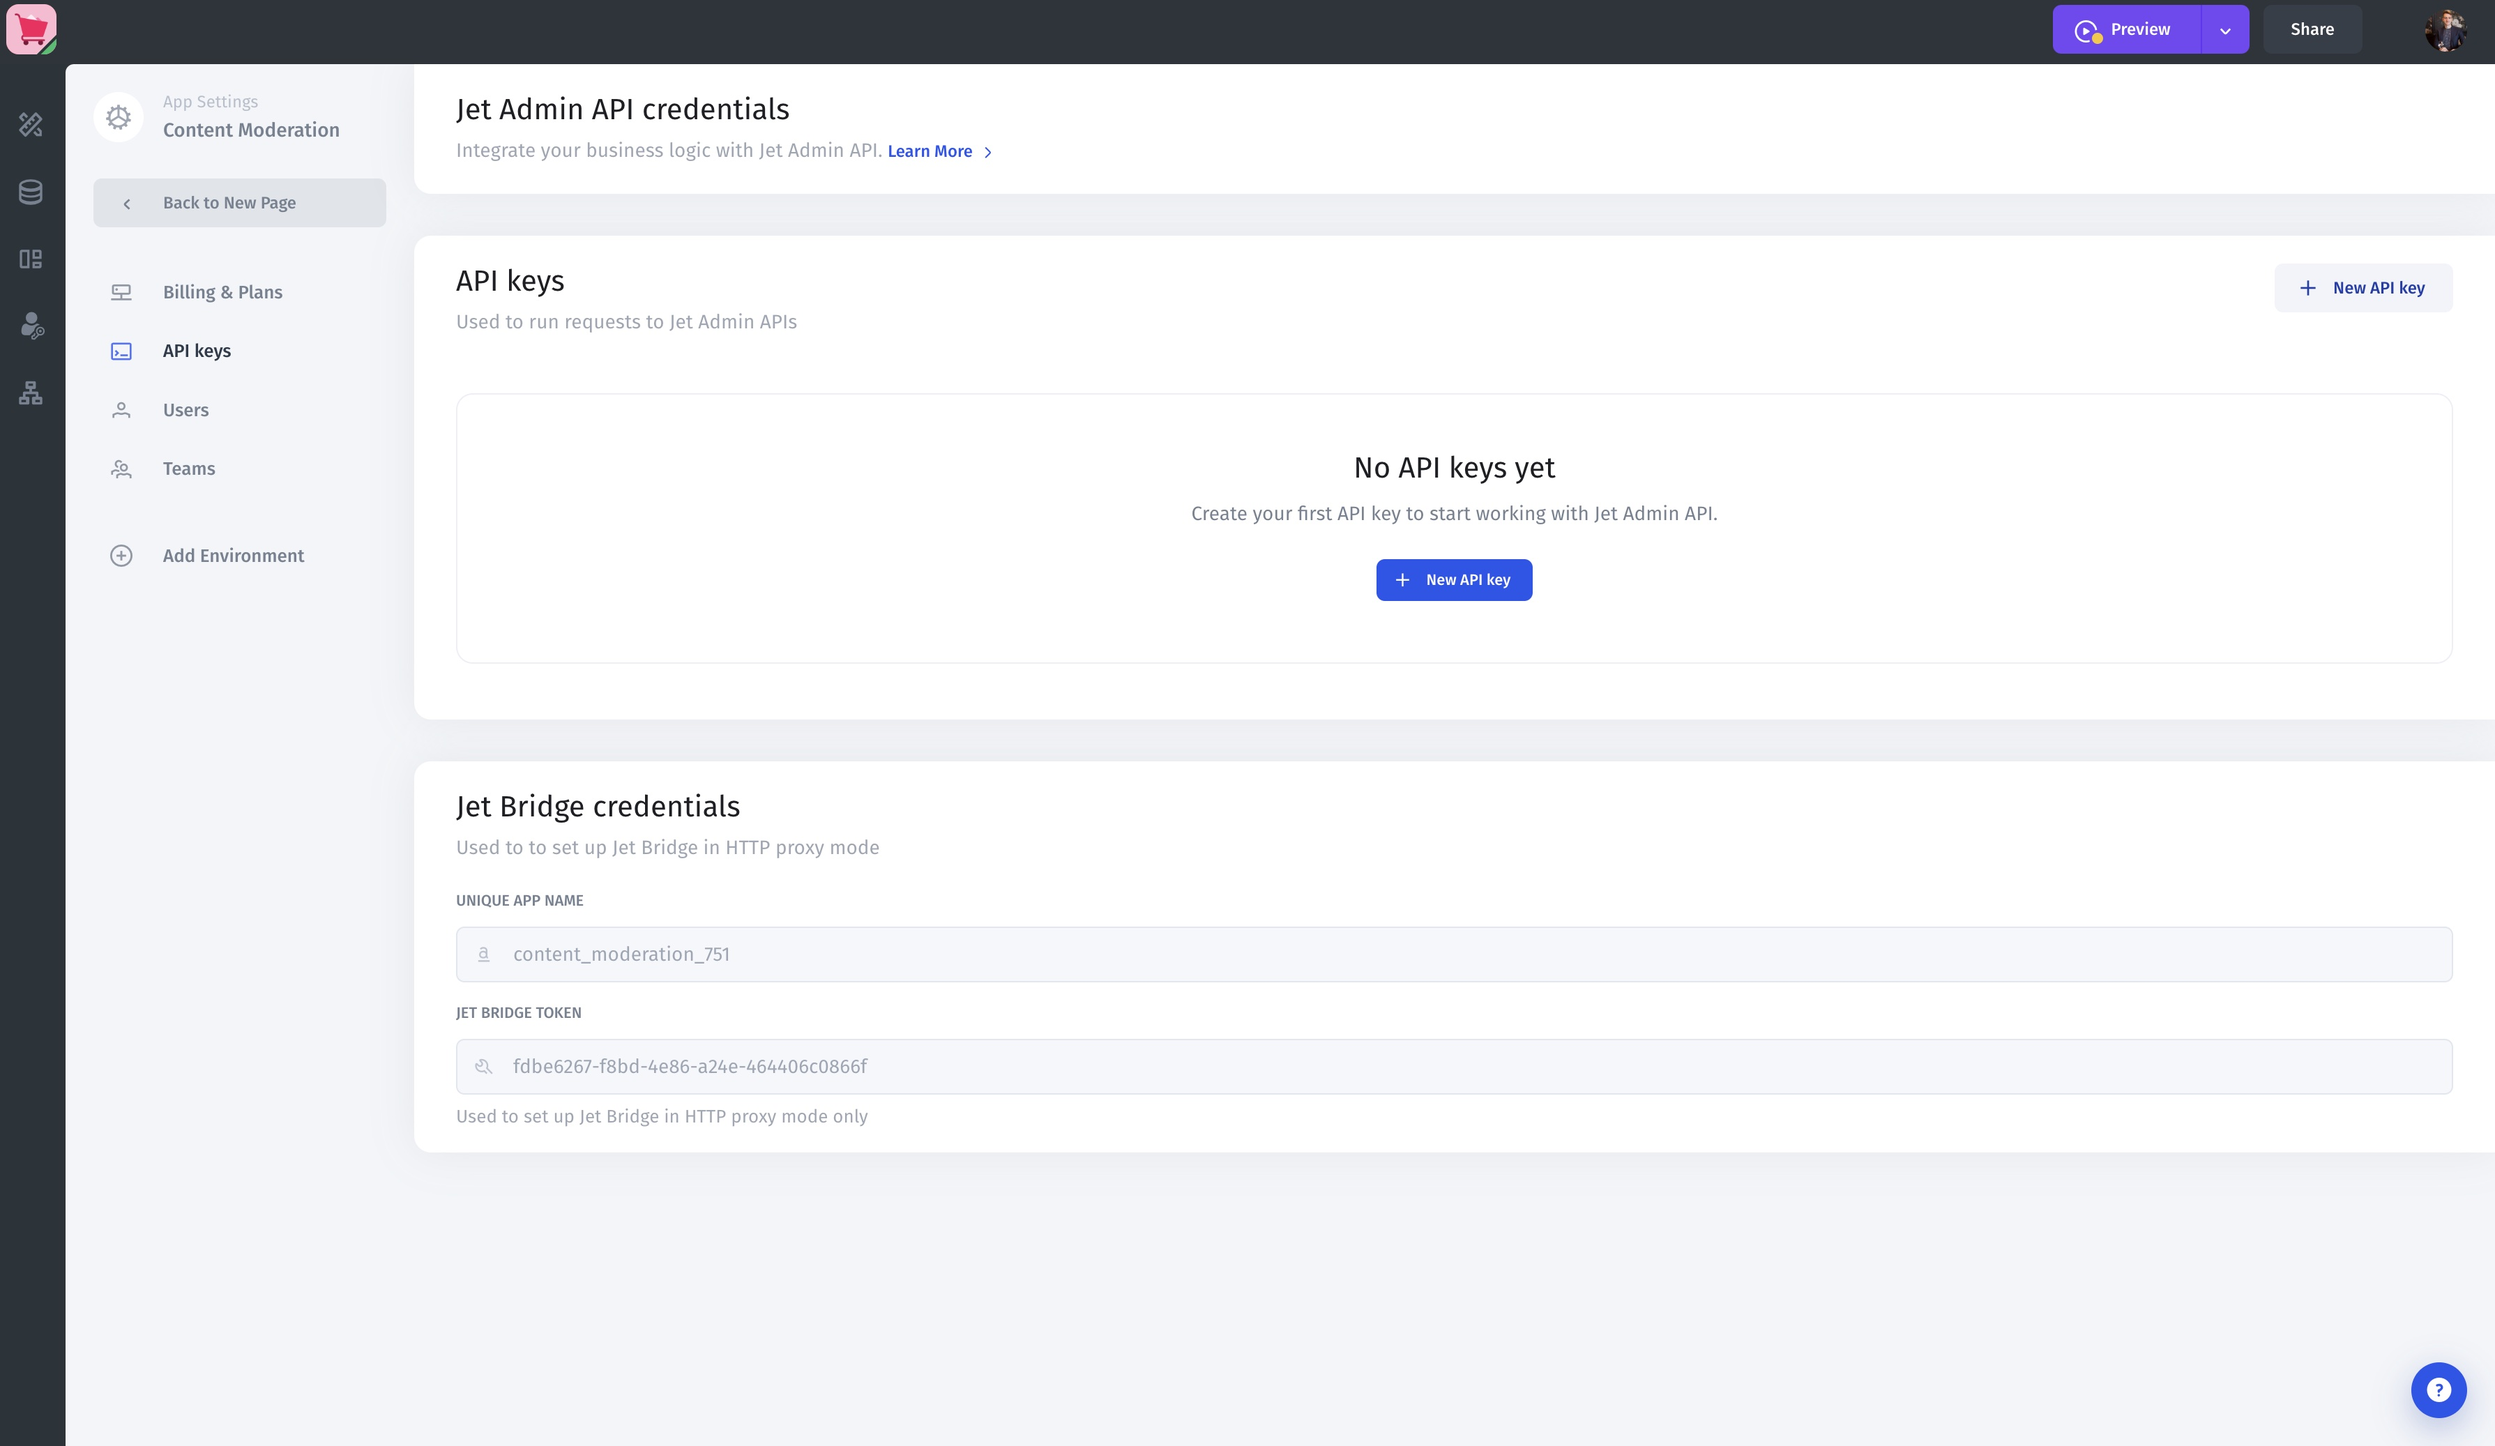
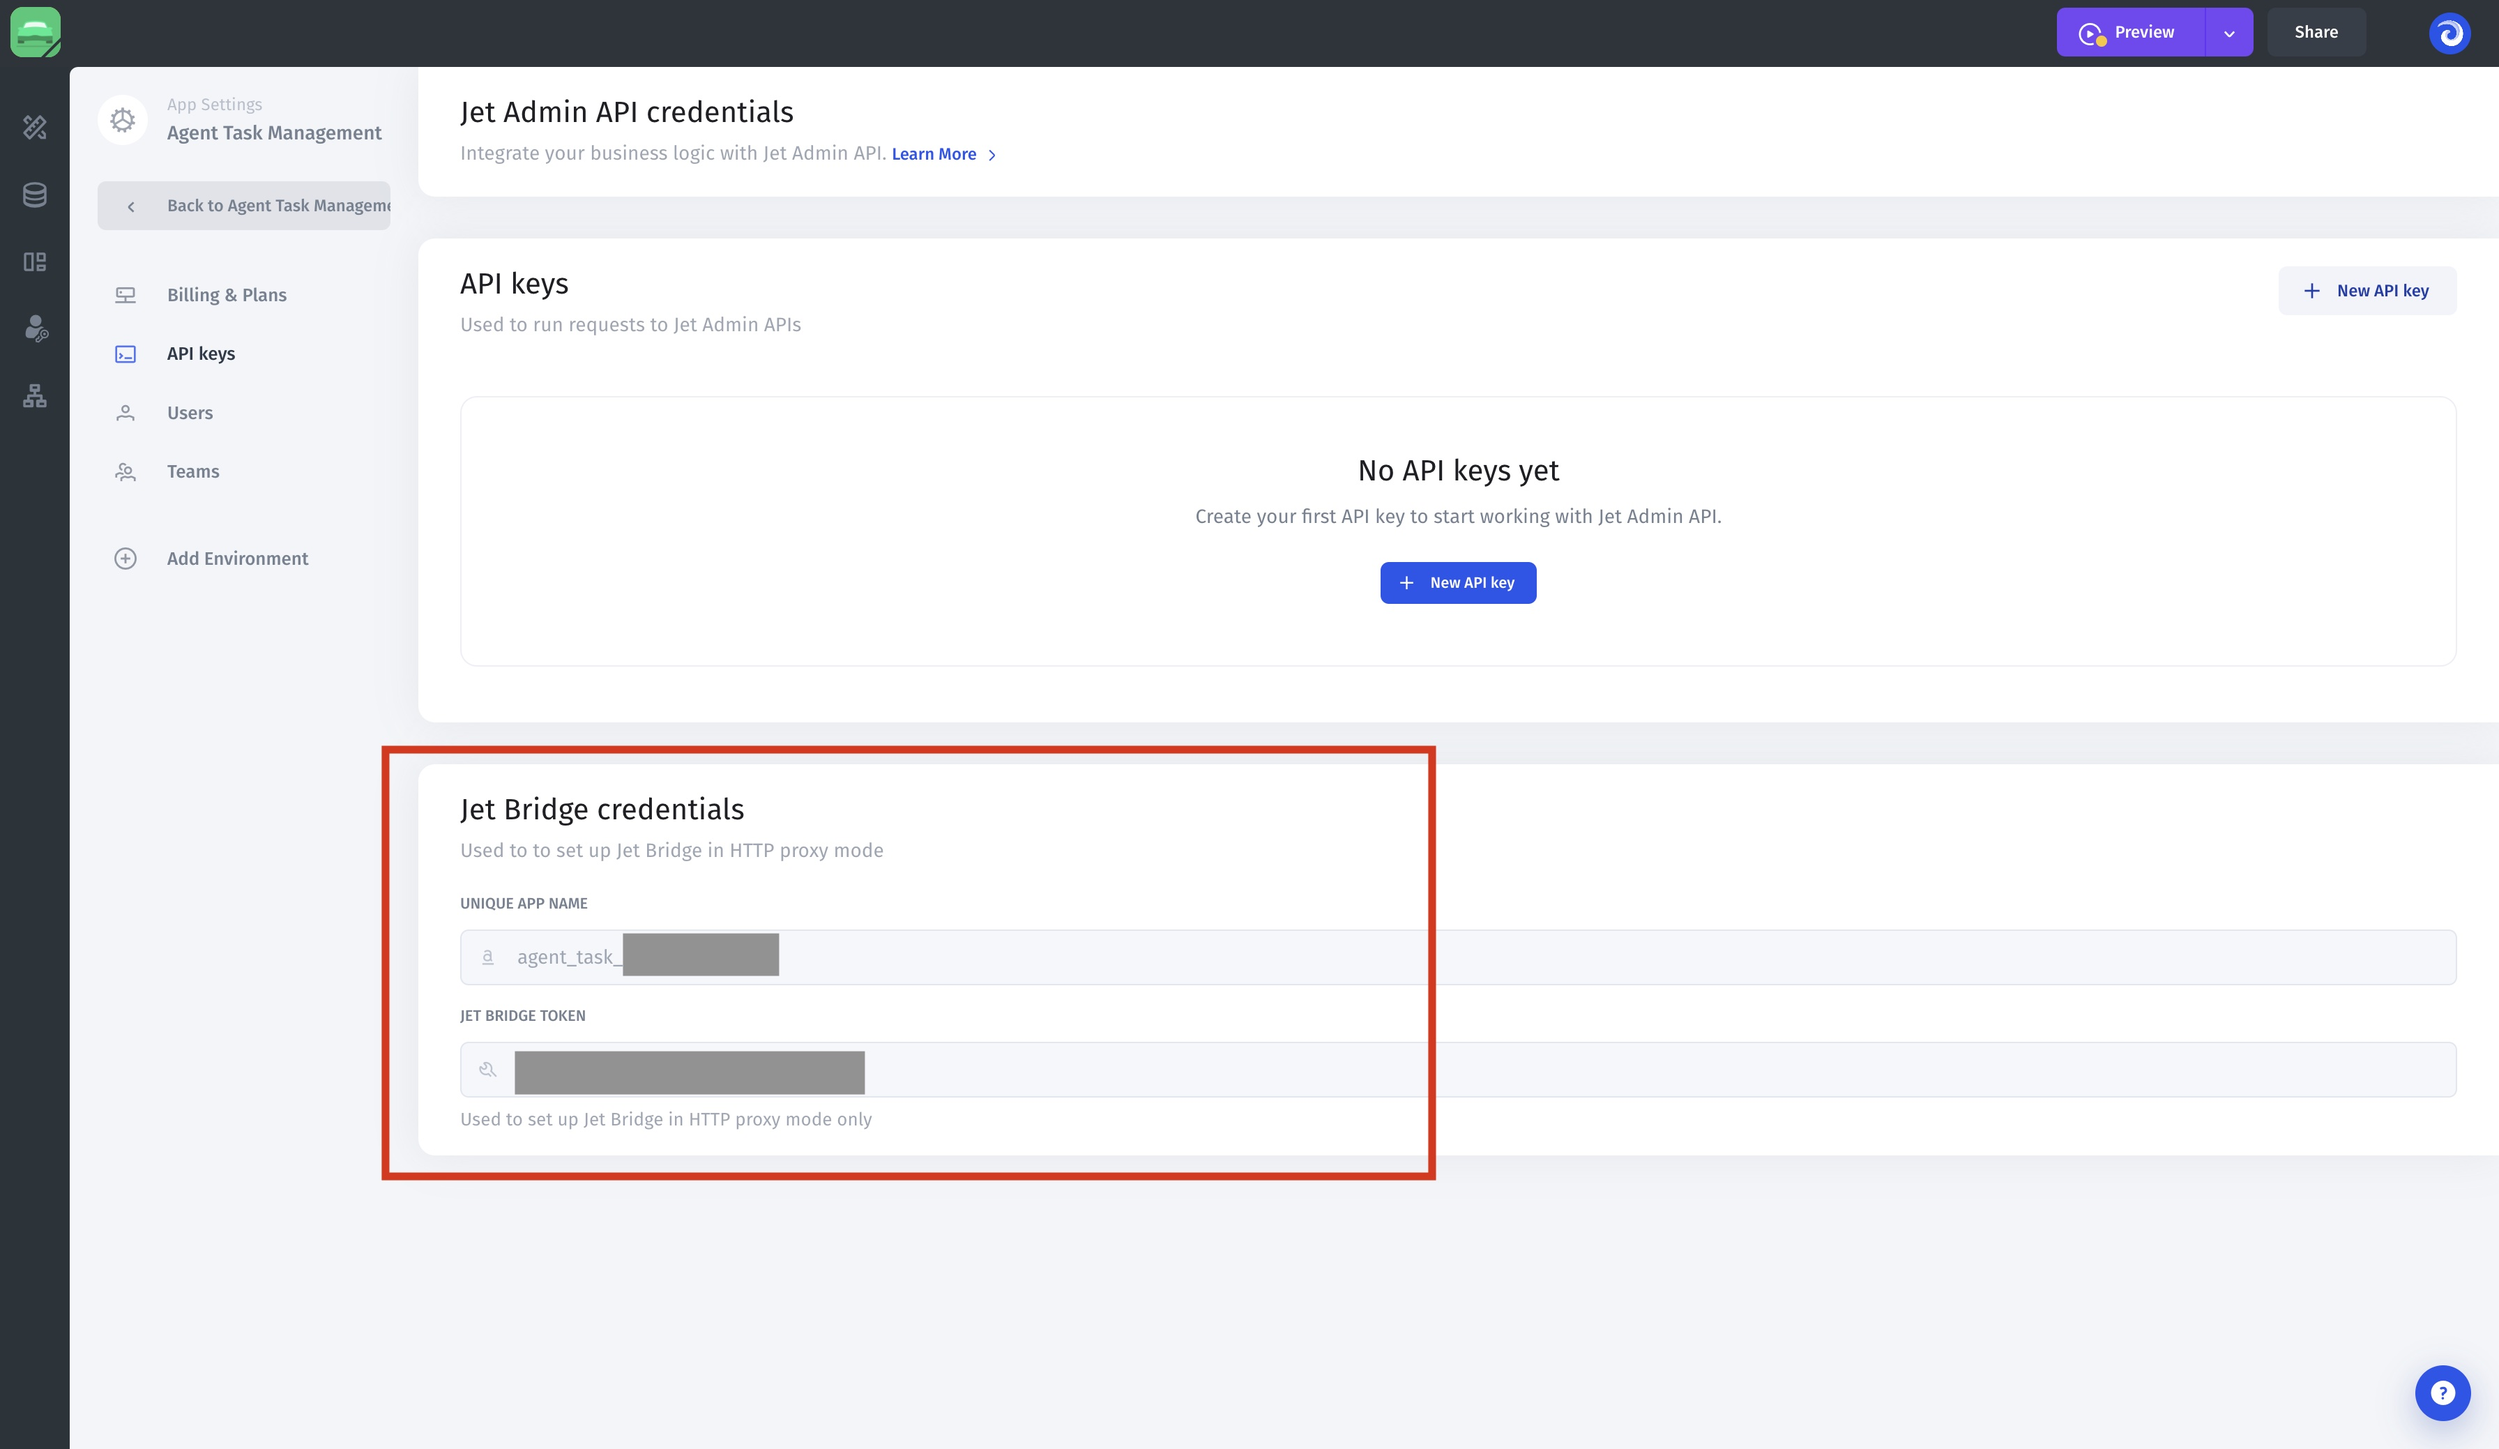
GitBook: [#507] No subject

diff --git a/user-guide/integrations/postgresql-integration/docker-installation.md b/user-guide/integrations/postgresql-integration/docker-installation.md
@@ -29,9 +29,15 @@ sh <(curl -s https://app.jetadmin.io/install_jet.sh) {{Project Name}} {{Token}}
 
 {% hint style="info" %}
 If you are using **Jet Bridge** just for HTTP requests (and not SQL) you can use **Project Token** as value for {Token}.
-
-![](<../../../.gitbook/assets/image (877).png>)
 {% endhint %}
+
+Go to the API key and below the API keys
+
+****![](../../../.gitbook/assets/api.jpg)****
+
+Copy **UNIQUE APP NAME** and **JET BRIDGE TOKEN.**
+
+<figure><img src="../../../.gitbook/assets/api2 (3).jpg" alt=""><figcaption></figcaption></figure>
 
 3\.  Finish your project installation by opening in your browser:\
 **localhost** is your **Jet Bridge** HOST and **8888** is its PORT.
